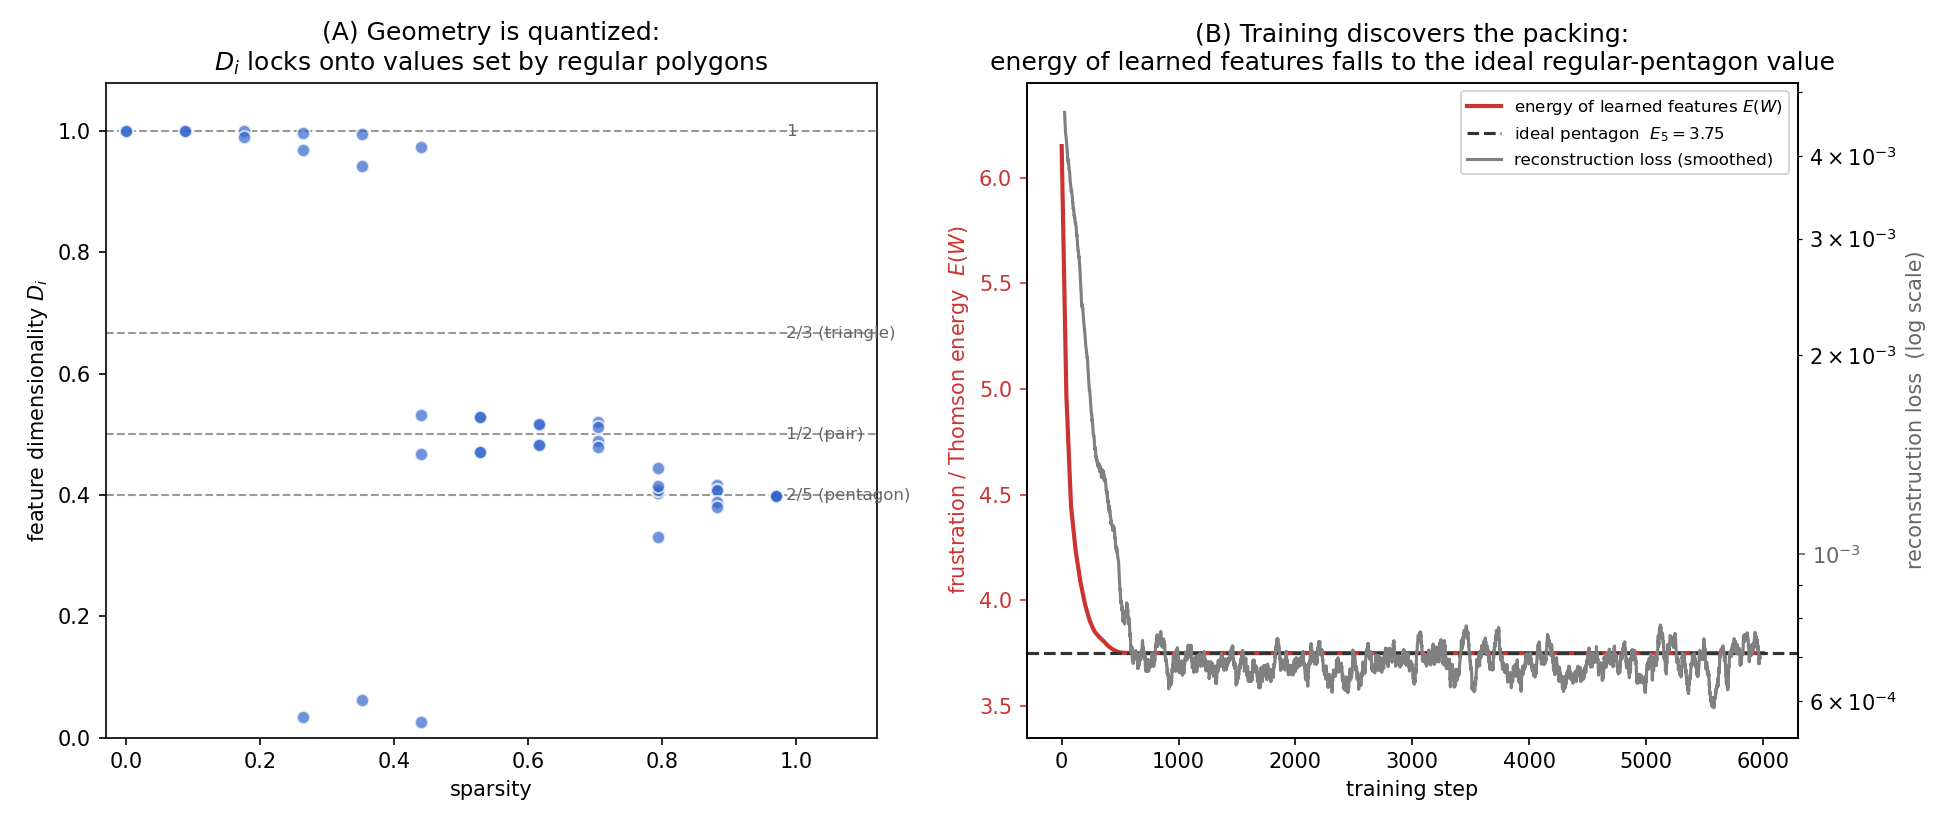
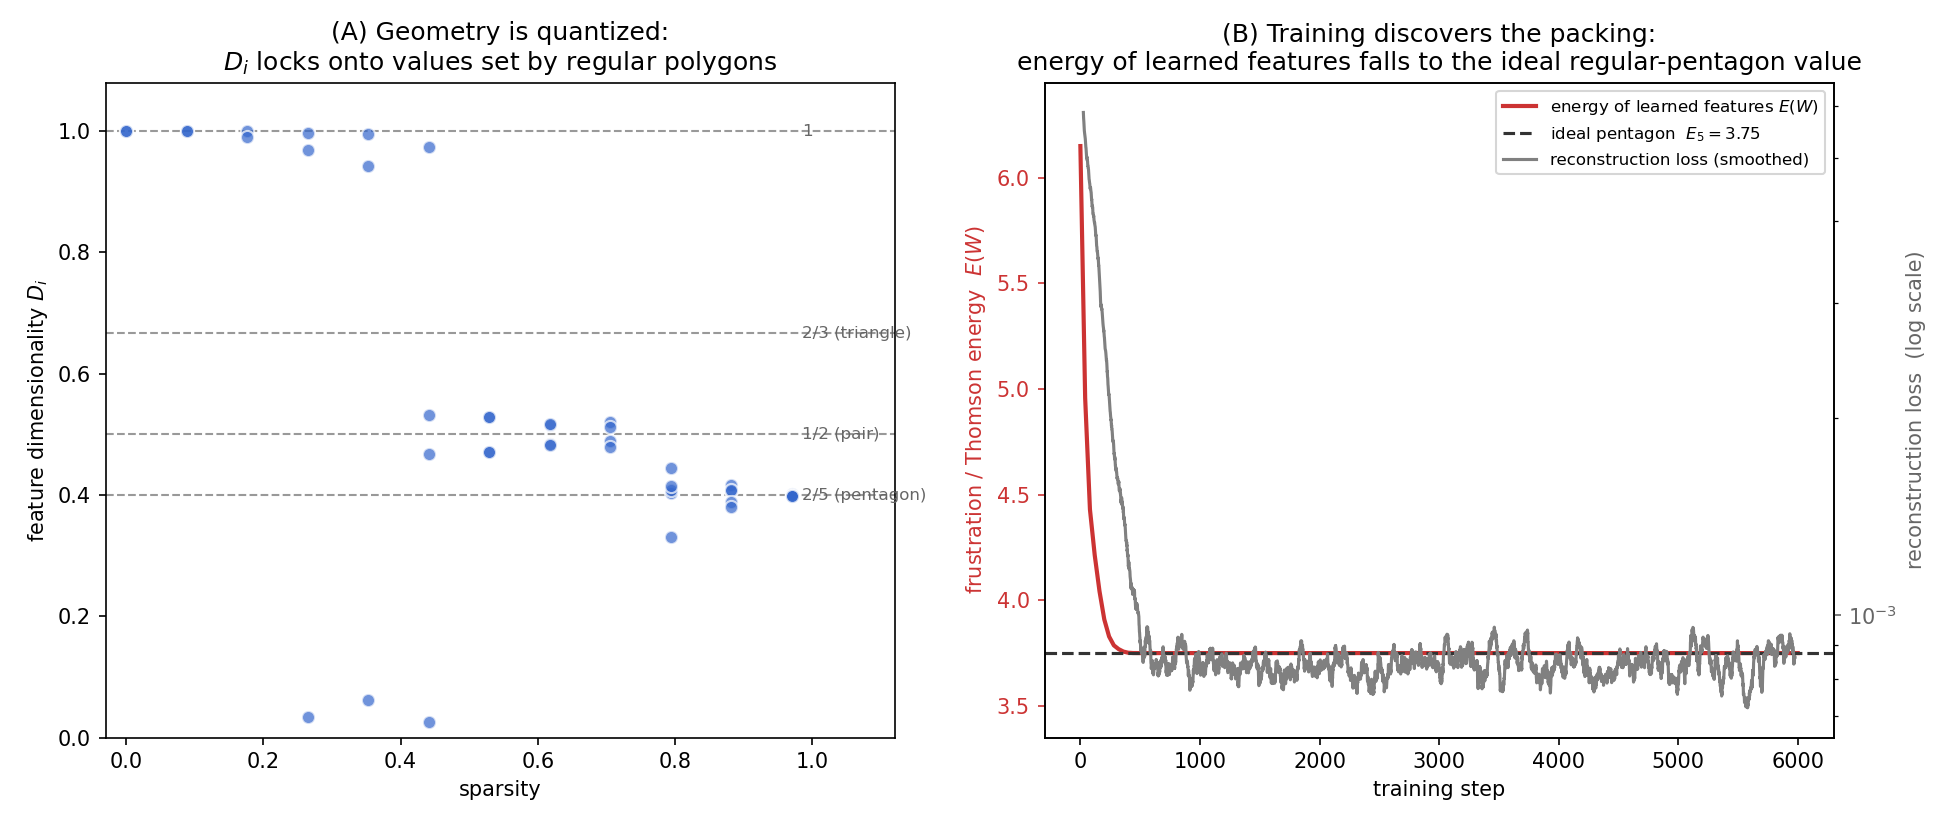
Refine Results

diff --git a/experiments/02_feature_geometry.py b/experiments/02_feature_geometry.py
@@ -82,8 +82,12 @@ def main() -> None:
         log(f"sparsity={sparsity:.2f}  D_i={[round(d, 2) for d in dims.tolist()]}  loss={loss:.4f}")
 
     # ---- (B) learning dynamics at high sparsity ----
+    # Uniform importance (r=1): the regime where the loss's interference term is
+    # exactly a (generalized) Thomson energy, E_I = 2E. So the unweighted E we
+    # plot IS (half) the quantity being minimised, and its ideal value is the
+    # exact closed form E_5 = 3.75.
     dyn_cfg = TrainConfig(n_features=5, n_hidden=2, sparsity=0.97,
-                          importance=IMPORTANCE, steps=6000, lr=2e-3)
+                          importance=1.0, steps=6000, lr=2e-3)
     final_loss, steps, energies, loss_hist = best_energy_trace(dyn_cfg, n_seeds=6)
     E_ideal = regular_polygon_energy(5)
     log(f"dynamics: final E={energies[-1]:.4f}  ideal pentagon E={E_ideal:.4f}  loss={final_loss:.4f}")

diff --git a/README.md b/README.md
@@ -13,8 +13,8 @@ Everything here is built on **Elhage et al. (2022), *Toy Models of Superposition
 A compact, self-contained reproduction of the paper's *core* results plus an explicit statistical-physics analysis — deliberately narrow, not a full replication.
 
 - **Reproduced from scratch** — the ReLU output model; the emergence of superposition with sparsity ($n=5$, $m=2 \to$ pentagon); the feature-dimensionality metric and its quantized values; the $n=2,m=1$ phase-change analysis; and the paper's reading of the geometry as a **generalized Thomson problem** (the paper makes this connection explicitly — see §3).
-- **Added** — an independent, tested reimplementation; a numerical check that the learned geometry attains the ideal packing energy exactly; and a features-per-dimension order parameter that tracks the superposition phase transition. These illustrate and extend the paper's framing; they do not originate it.
-- **Out of scope** — results that are in the paper but not attempted here: the linear-model contrast, computation-in-superposition, correlated/anti-correlated features, higher-dimensional polytopes, learning dynamics, and the connection to real trained networks.
+- **Added** — an independent, tested reimplementation; a learning-dynamics view showing the energy of the learned features descend to the ideal packing value as training proceeds; and a features-per-dimension order parameter that tracks the superposition phase transition. These illustrate and extend the paper's framing; they do not originate it.
+- **Out of scope** — results that are in the paper but not attempted here: the linear-model contrast, computation-in-superposition, correlated/anti-correlated features, higher-dimensional polytopes, the *energy-level jumps* during training (we show only the overall energy descent), and the connection to real trained networks.
 
 ---
 
@@ -135,15 +135,7 @@ In panel A, **each dot is one feature's $D_i$** (from the best of 6 seeds at tha
 E(W) = \sum_{i \lt j} \bigl(\hat{W}_i \cdot \hat{W}_j\bigr)^2. \quad (6)
 ```
 
-For $k$ unit vectors equally spaced on a circle this has the closed form $E_k = \tfrac{1}{4}k(k-2)$ (Appendix), so the regular pentagon sits at $E_5 = 3.75$. Panel B tracks $E(W)$ of the *learned* directions through training: as the reconstruction loss falls (right axis), the energy is driven down and **settles exactly onto $E_5 = 3.75$**. The network is never told to pack points on a sphere — it discovers the minimum-energy arrangement as a byproduct of reducing reconstruction error. That is the link between superposition and the Thomson problem, shown dynamically (and it mirrors the paper's "energy-level" view of learning).
-
-**A note on importance.** That clean value is the *uniform-importance* case. In general the penalised interference is importance-weighted — feature $i$'s error carries weight $I_i$, so a collision with $j$ costs $I_i(\hat{W}_i\cdot\hat{W}_j)^2$ — giving
-
-```math
-E_I(W) = \sum_{i \lt j} (I_i + I_j)\,(\hat{W}_i \cdot \hat{W}_j)^2 . \quad (7)
-```
-
-with $E_I = 2E$ when all $I_i = 1$ (the exact Thomson regime). Non-uniform importance sets *which* features survive — dropping one feature's importance enough turns the five-feature pentagon into a four-feature square — and gently **deforms** the polytope; but at high sparsity the survivors stay near-regular, which is why the unweighted $E_5 = 3.75$ is still attained at the $r = 0.9$ used here.
+For $k$ unit vectors equally spaced on a circle this has the closed form $E_k = \tfrac{1}{4}k(k-2)$ (Appendix), so the regular pentagon sits at $E_5 = 3.75$. Panel B runs a single high-sparsity training at **uniform importance** — the regime where the loss's interference term is *exactly* this (generalized-Thomson) energy — and tracks $E(W)$ of the learned directions: as the reconstruction loss falls (right axis), the energy it is effectively minimizing is driven down and **settles onto the exact minimum $E_5 = 3.75$**. The network is never told to pack points on a sphere; it discovers the minimum-energy arrangement as a byproduct of reducing reconstruction error — the Thomson link, shown dynamically (and mirroring the paper's "energy-level" view of learning). How *non-uniform* importance reshapes this — which features get stored at all — is the subject of Experiment 4.
 
 ### Experiment 3 — a sparsity phase diagram
 
@@ -152,7 +144,7 @@ with $E_I = 2E$ when all $I_i = 1$ (the exact Thomson regime). Non-uniform impor
 Now a bigger model (**n = 40 features, m = 10 dimensions**, importance decay $r = 0.95$). We pick an **order parameter** — a single number summarising the macroscopic state — and sweep the sparsity knob. Our order parameter is **features-per-dimension** $\phi$: the number of features actually stored (those with a non-negligible representation vector, $\| W_i \| \gt \tau$ with $\tau = 0.5$) divided by the number of dimensions $m$:
 
 ```math
-\phi = \frac{1}{m} \sum_{i=1}^{n} \mathbf{1}\!\left[\, \| W_i \| \gt \tau \,\right]. \quad (8)
+\phi = \frac{1}{m} \sum_{i=1}^{n} \mathbf{1}\!\left[\, \| W_i \| \gt \tau \,\right]. \quad (7)
 ```
 
 $\phi = 1$ means "no superposition" (each stored feature owns a dimension); $\phi \gt 1$ means superposition. The threshold $\tau$ is unambiguous because the learned norms are **bimodal** — stored features sit near $\| W_i \| \approx 1$, dropped ones near $0$ — so any $\tau$ in the gap (≈ 0.3–0.7) gives the same count; we use $\tau = 0.5$. (We also track **bottleneck usage** $\tfrac{1}{m}\sum_i D_i$, the fraction of representational capacity in use, plotted alongside it.)
@@ -178,19 +170,19 @@ The smallest model that still has a phase change is $n=2$ features in $m=1$ dime
 **Costs.** A *dropped* feature is best reconstructed by a constant — the model sets the bias to the feature's mean $\mathbb{E}[x]=p/2$ — so its cost is its **variance** $\mathrm{Var}(x)=\tfrac{p}{3}-\tfrac{p^2}{4}$ (not the raw second moment $\mathbb{E}[x^2]=p/3$; getting this right is what makes the boundary come out correctly). The *antipodal* pair reconstructs each feature exactly unless **both** fire (probability $p^2$); when they do, each feature's error is $\min(x_1,x_2)$ — the smaller of the two active values, each an independent draw from $\mathcal{U}[0,1)$ — and $\mathbb{E}[\min(x_1,x_2)^2]=\tfrac16$. Hence
 
 ```math
-L_{\text{not}} = I\!\left(\tfrac{p}{3}-\tfrac{p^2}{4}\right), \qquad L_{\text{ded}} = \tfrac{p}{3}-\tfrac{p^2}{4}, \qquad L_{\text{anti}} = \frac{(1+I)\,p^2}{6}. \quad (9)
+L_{\text{not}} = I\!\left(\tfrac{p}{3}-\tfrac{p^2}{4}\right), \qquad L_{\text{ded}} = \tfrac{p}{3}-\tfrac{p^2}{4}, \qquad L_{\text{anti}} = \frac{(1+I)\,p^2}{6}. \quad (8)
 ```
 
 **Mechanism.** The interference cost is *exactly* quadratic in density (it is paid only on a collision, probability $p^2$), whereas the drop cost is the variance $\tfrac{p}{3}-\tfrac{p^2}{4}$, which is linear in $p$ **only at high sparsity**. So to leading order as $p\to0$:
 
 ```math
-\underbrace{\text{drop cost} \;\sim\; p}_{\text{linear (small } p)} \quad\text{vs.}\quad \underbrace{\text{interference} \;=\; \tfrac{(1+I)\,p^2}{6}}_{\text{exactly quadratic}}. \quad (10)
+\underbrace{\text{drop cost} \;\sim\; p}_{\text{linear (small } p)} \quad\text{vs.}\quad \underbrace{\text{interference} \;=\; \tfrac{(1+I)\,p^2}{6}}_{\text{exactly quadratic}}. \quad (9)
 ```
 
 So superposition wins once the world is sparse enough. The model takes the minimum of the three; equating $L_{\text{anti}}$ with the cheaper drop gives the superposition boundary
 
 ```math
-\text{superpose} \iff p \;\lt\; p^\star, \qquad p^\star = \frac{4I}{2+5I}\ (I\le1), \quad \frac{4}{5+2I}\ (I\ge1). \quad (11)
+\text{superpose} \iff p \;\lt\; p^\star, \qquad p^\star = \frac{4I}{2+5I}\ (I\le1), \quad \frac{4}{5+2I}\ (I\ge1). \quad (10)
 ```
 
 These three phases tile the $(I,p)$ plane and meet at $(I,p)=(1,\tfrac47)$: **not represented** when the extra feature is unimportant and dense ($I\lt1$, $p\gt p^\star$); **dedicated** when it is the *more* important one and dense ($I\gt1$, $p\gt p^\star$); **superposition** whenever sparse ($p\lt p^\star$). The transition is **first order** (the optimal configuration switches discontinuously). The symmetric case is *not* "superposition for all sparsity": even at $I=1$ there is a genuine dense phase. Training the actual $n=2,m=1$ model confirms this three-phase map:
@@ -238,22 +230,22 @@ tests/         fast checks of the engine and metrics
 
 ## 8. Appendix — the regular-polygon identities
 
-The two closed forms used in Experiment 2. For $k$ unit vectors equally spaced on the circle, write $\hat{W}_a = (\cos\theta_a, \sin\theta_a)$ with $\theta_a = 2\pi a / k$, so that $\hat{W}_a \cdot \hat{W}_b = \cos\!\big(\tfrac{2\pi (a-b)}{k}\big)$. The one fact we need is that for $k \ge 3$ the cross term vanishes and
+The two closed forms used in Experiment 2. For $k$ unit vectors equally spaced on the circle, write $\hat{W}_a = (\cos\theta_a, \sin\theta_a)$ with $\theta_a = 2\pi a / k$, so that $\hat{W}_a \cdot \hat{W}_b = \cos\big(\tfrac{2\pi (a-b)}{k}\big)$. The one fact we need is that for $k \ge 3$ the cross term vanishes and
 
 ```math
-\sum_{d=0}^{k-1} \cos^2\!\Big(\tfrac{2\pi d}{k}\Big) = \frac{k}{2}. \quad (12)
+\sum_{d=0}^{k-1} \cos^2 \Big(\tfrac{2\pi d}{k}\Big) = \frac{k}{2}. \quad (11)
 ```
 
 **Dimensionality** $D_i = 2/k$ (Eq 5). With unit vectors $\| W_i \| = 1$, the denominator of $D_i$ is exactly the sum above, so
 
 ```math
-\sum_{j} \bigl(\hat{W}_i \cdot W_j\bigr)^2 = \sum_{d=0}^{k-1} \cos^2\!\Big(\tfrac{2\pi d}{k}\Big) = \frac{k}{2} \quad\Longrightarrow\quad D_i = \frac{1}{k/2} = \frac{2}{k}. \quad (13)
+\sum_{j} \bigl(\hat{W}_i \cdot W_j\bigr)^2 = \sum_{d=0}^{k-1} \cos^2\!\Big(\tfrac{2\pi d}{k}\Big) = \frac{k}{2} \quad\Longrightarrow\quad D_i = \frac{1}{k/2} = \frac{2}{k}. \quad (12)
 ```
 
 **Frustration energy** $E_k = \tfrac14 k(k-2)$ (Eq 6). Summing over unordered pairs, with $k$ ordered pairs for each nonzero difference $d$,
 
 ```math
-E_k = \sum_{a \lt b} \cos^2\!\Big(\tfrac{2\pi (a-b)}{k}\Big) = \frac{k}{2}\sum_{d=1}^{k-1}\cos^2\!\Big(\tfrac{2\pi d}{k}\Big) = \frac{k}{2}\Big(\frac{k}{2} - 1\Big) = \frac{k(k-2)}{4}. \quad (14)
+E_k = \sum_{a \lt b} \cos^2\!\Big(\tfrac{2\pi (a-b)}{k}\Big) = \frac{k}{2}\sum_{d=1}^{k-1}\cos^2\!\Big(\tfrac{2\pi d}{k}\Big) = \frac{k}{2}\Big(\frac{k}{2} - 1\Big) = \frac{k(k-2)}{4}. \quad (13)
 ```
 
 For the pentagon $E_5 = \tfrac14 \cdot 5 \cdot 3 = 3.75$ (an antipodal pair, $k=2$, gives $E = 1$ separately).